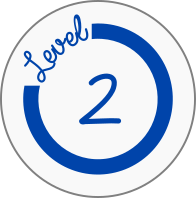
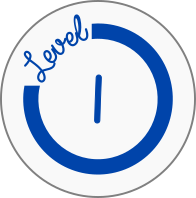
moew refactoring and styling

Changed region(s): [[0.398, 0.3636, 0.6122, 0.6364]]

diff --git a/client/src/pages/selectStudy/selectStudy.html b/client/src/pages/selectStudy/selectStudy.html
@@ -22,15 +22,50 @@
 
   <div [ngSwitch]="studyType">
     <div *ngSwitchCase="'vocabulary'">
-      <button ion-button class="studyBtn" (click)="studyDueCards()">Study<br/>due cards</button>
-      <horizontalscroll-component [items]="language.topics" (clickEvent)="presentPopover($event)"></horizontalscroll-component>
-      <horizontalscroll-component [items]="levels" (clickEvent)="presentPopover($event)"></horizontalscroll-component>
+      <ion-list no-lines>
+        <!-- <ion-item><button ion-button class="studyBtn" (click)="studyDueCards()">Study<br/>due cards</button></ion-item> -->
+        <ion-item-divider>
+          Study due cards
+        </ion-item-divider>
+        <ion-item class="center">
+          <circleview-component text="Study" [subtext]="vocabProvider.getCardsToLearn().length" (click)="studyDueCards()"></circleview-component>
+        </ion-item>
+        <ion-item-divider>
+          Topics
+        </ion-item-divider>
+        <ion-item>
+          <horizontalscroll-component mode="topics" [items]="language.topics" (clickEvent)="presentTopicPopover($event)"></horizontalscroll-component>
+        </ion-item>
+        <ion-item-divider>
+          Levels
+        </ion-item-divider>
+        <ion-item>
+          <horizontalscroll-component mode="levels" (clickEvent)="presentLevelPopover($event)"></horizontalscroll-component>
+        </ion-item>
+      </ion-list>
     </div>
 
     <div *ngSwitchCase="'grammar'">
-      <button ion-button class="studyBtn" (click)="studyDueCards()">Study<br/>due cards</button>
-      <horizontalscroll-component [items]="topics" (clickEvent)="presentPopover($event)"></horizontalscroll-component>
-      <horizontalscroll-component [items]="levels" (clickEvent)="presentPopover($event)"></horizontalscroll-component>
+      <ion-list>
+        <ion-item-divider>
+          Study due cards
+        </ion-item-divider>
+        <ion-item class="center">
+          <circleview-component text="Study" (click)="studyDueCards()"></circleview-component>
+        </ion-item>
+        <ion-item-divider>
+          Topics
+        </ion-item-divider>
+        <ion-item>
+          <horizontalscroll-component mode="topics" [items]="topics" (clickEvent)="presentTopicPopover($event)"></horizontalscroll-component>
+        </ion-item>
+        <ion-item-divider>
+          Levels
+        </ion-item-divider>
+        <ion-item>
+          <horizontalscroll-component mode="levels" (clickEvent)="presentLevelPopover($event)"></horizontalscroll-component>
+        </ion-item>
+      </ion-list>
     </div>
   </div>
 

diff --git a/client/src/pages/selectStudyPopover/selectStudyPopover.html b/client/src/pages/selectStudyPopover/selectStudyPopover.html
@@ -1,7 +1,8 @@
 <ion-header>
 
   <ion-navbar>
-    <ion-title>{{cardDeckTitle}}</ion-title>
+    <ion-title *ngIf="mode=='levels'">Level {{level}}</ion-title>
+    <ion-title *ngIf="mode=='topic'">{{topic}}</ion-title>
   </ion-navbar>
 
 </ion-header>
@@ -9,8 +10,15 @@
 
 <ion-content padding class="no-scroll center-content">
 
-  <button ion-button class="popoverBtn" (click)="showCardDeck(cardDeckId)" [disabled]="!(this.vocabProvider.getCardDeckForId(cardDeckId).length>0)"><ion-icon name="eye"></ion-icon></button>
-  <button ion-button class="popoverBtn" (click)="studyCardDeck(cardDeckId)" [disabled]="!(this.vocabProvider.getCardDeckForId(cardDeckId).length>0)"><ion-icon name="play"></ion-icon></button>
-  <button ion-button class="popoverBtn" (click)="showRules(cardDeckId)" [disabled]="!(this.vocabProvider.getCardDeckForId(cardDeckId).length>0)"><ion-icon name="bulb"></ion-icon></button>
+  <div *ngIf="mode=='topic'">
+    <button ion-button class="popoverBtn" (click)="showCardDeck(cardDeckId)" [disabled]="!(this.vocabProvider.getCardDeckForTopic(topic).length>0)"><ion-icon name="eye"></ion-icon></button>
+    <button ion-button class="popoverBtn" (click)="studyCardDeck(cardDeckId)" [disabled]="!(this.vocabProvider.getCardDeckForTopic(topic).length>0)"><ion-icon name="play"></ion-icon></button>
+    <button ion-button class="popoverBtn" (click)="showRules(cardDeckId)" [disabled]="!(this.vocabProvider.getCardDeckForTopic(topic).length>0)"><ion-icon name="bulb"></ion-icon></button>
+  </div>
+  <div *ngIf="mode=='levels'">
+    <button ion-button class="popoverBtn" (click)="showCardDeck(level)" [disabled]="!(this.vocabProvider.getCardDeckForLevel(level-1).length>0)"><ion-icon name="eye"></ion-icon></button>
+    <button ion-button class="popoverBtn" (click)="studyCardDeck(level)" [disabled]="!(this.vocabProvider.getCardDeckForLevel(level-1).length>0)"><ion-icon name="play"></ion-icon></button>
+    <button ion-button class="popoverBtn" (click)="showRules(level)" [disabled]="!(this.vocabProvider.getCardDeckForLevel(level-1).length>0)"><ion-icon name="bulb"></ion-icon></button>
+  </div>
 
 </ion-content>

diff --git a/client/src/pages/selectStudyPopover/selectStudyPopover.ts b/client/src/pages/selectStudyPopover/selectStudyPopover.ts
@@ -1,5 +1,5 @@
 import { Component } from '@angular/core';
-import {ToastController, ViewController, App, NavParams} from 'ionic-angular';
+import { ToastController, ViewController, App, NavParams } from 'ionic-angular';
 
 import { Card } from "../../../model/card";
 import { VocabProvider } from "../../providers/vocab/vocab";
@@ -12,17 +12,23 @@ import { VocabularyListPage } from "../vocabularyList/vocabularyList";
 })
 export class SelectStudyPopoverPage {
 
-  cardDeckId: number = -1;
-  cardDeckTitle: String = null;
+  private mode: string;
+  private topic: string;
+  private level: number;
 
   constructor(protected app: App,
-              private toastCtrl: ToastController,
-              private navParams: NavParams,
-              private viewCtrl: ViewController,
-              private vocabProvider: VocabProvider) {
+    private toastCtrl: ToastController,
+    private navParams: NavParams,
+    private viewCtrl: ViewController,
+    private vocabProvider: VocabProvider) {
 
-    this.cardDeckId = this.navParams.get('cardDeckId');
-    this.cardDeckTitle = this.navParams.get('cardDeckTitle');
+    this.level = this.navParams.get('level');
+    this.topic = this.navParams.get('topic');
+    this.mode = this.navParams.get('mode');
+    console.log("popup");
+    console.log(this.mode);
+    console.log(this.topic);
+    console.log(this.level);
   }
 
   showCardDeck(cardDeckId: number) {

diff --git a/client/src/components/horizontalscroll/horizontalscroll.html b/client/src/components/horizontalscroll/horizontalscroll.html
@@ -3,7 +3,15 @@
   <ion-icon name="arrow-dropright" class="scroll-indicator_right"></ion-icon>
 
   <ion-scroll scrollX class="scroll-bar">
-    <circleview-component *ngFor="let item of myItems" (click)="itemClick(item.name)" [text]="item.name" [subtext]="item.amount" [image]="item.image"></circleview-component>
+    <div *ngIf="mode=='languages'">
+      <circleview-component *ngFor="let item of myItems" (click)="itemClick(item.name)" [text]="item.name" [image]="item.image"></circleview-component>
+    </div>
+    <div *ngIf="mode=='topics'">
+      <circleview-component *ngFor="let item of myItems" (click)="itemClick(item.name)" [text]="item.name" [subtext]="vocabProvider.getCardDeckForTopic(item.name).length" image="assets/imgs/topic/topic.png"></circleview-component>
+    </div>
     <!-- <circleview-component *ngFor="let item of myItems" (click)="itemClick(item.key)" [subtext]="item.amount" [image]="item.image"></circleview-component> -->
+    <div *ngIf="mode=='levels'">
+      <circleview-component *ngFor="let i of [1, 2, 3, 4, 5, 6]" (click)="itemClick(i)" [subtext]="vocabProvider.getCardDeckForLevel(i -1).length" image="assets/imgs/level/level_{{i}}.png"></circleview-component>
+    </div>
   </ion-scroll>
 </div>

diff --git a/client/src/pages/selectStudy/selectStudy.ts b/client/src/pages/selectStudy/selectStudy.ts
@@ -79,7 +79,7 @@ export class SelectStudyPage {
     }
   }
 
-  presentPopover(event: any) {
+  presentTopicPopover(topic: any) {
     // get title for popover
     // let cardDeckTitle = null;
     // if (event > 9) { // topic chosen
@@ -96,9 +96,13 @@ export class SelectStudyPage {
     //   });
     // }
 
-    let popover = this.popoverCtrl.create(SelectStudyPopoverPage,
-      {cardDeckId: event, cardDeckTitle: event});
-    popover.present();
+    this.popoverCtrl.create(SelectStudyPopoverPage,
+      { topic: topic, mode: "topic" }).present();
+  }
+
+  presentLevelPopover(level: number) {
+    this.popoverCtrl.create(SelectStudyPopoverPage,
+      { level: level, mode: "levels" }).present();
   }
 
   // createCard() {

diff --git a/client/src/components/horizontalscroll/horizontalscroll.ts b/client/src/components/horizontalscroll/horizontalscroll.ts
@@ -1,4 +1,5 @@
 import { Component, Input, Output, EventEmitter } from '@angular/core';
+import { VocabProvider } from "../../providers/vocab/vocab";
 
 export interface Item{
   name:string;
@@ -14,9 +15,10 @@ export interface Item{
 export class HorizontalscrollComponent {
 
   @Input("items") myItems:Item[];
+  @Input("mode") mode:string;
   @Output() clickEvent = new EventEmitter();
 
-  constructor() {
+  constructor(public vocabProvider: VocabProvider) {
 
   }
 

diff --git a/client/src/components/horizontalscroll/horizontalscroll.scss b/client/src/components/horizontalscroll/horizontalscroll.scss
@@ -1,6 +1,8 @@
 horizontalscroll-component {
   .scroll-container {
-    margin: 0 10px;
+    // margin: 15px 0;
+    // padding: 10px 10px;
+    // background-color: rgba(26,123,211, 0.3);
   }
 
   .scroll-indicator_left {
@@ -30,7 +32,7 @@ horizontalscroll-component {
   }
 
   .scroll-bar {
-    height: 160px;
+    height: 103px;
     text-align: center;
     white-space: nowrap;
     margin: 0 20px;

diff --git a/client/src/components/circleview/circleview.scss b/client/src/components/circleview/circleview.scss
@@ -16,6 +16,7 @@ circleview-component {
     color: map-get($colors, light);
     text-shadow: -4px 0 10px map-get($colors, primary), 0 4px 10px map-get($colors, primary), 4px 0 10px map-get($colors, primary), 0 -4px 10px map-get($colors, primary);
     font-size: large;
+    font-weight: bold;
     //center
     text-align: center;
     vertical-align: middle;

diff --git a/client/src/pages/selectStudy/selectStudy.scss b/client/src/pages/selectStudy/selectStudy.scss
@@ -8,5 +8,16 @@ page-selectStudy {
     background-color: map-get($colors, primary);
     border: 2px solid map-get($colors, primary);
   }
-}
 
+  .item-divider-md{
+    padding: 0;
+    margin: 0;
+    background-color: map-get($colors, secondary);
+    color: map-get($colors, light);
+    font-size: 150%;
+  }
+
+  .center{
+    text-align: center;
+  }
+}

diff --git a/client/src/pages/home/home.html b/client/src/pages/home/home.html
@@ -15,7 +15,7 @@
     <h2 class="headercolor">Ready to start learning?</h2>
   </ion-card>
 
-  <horizontalscroll-component [items]="user.languages" (clickEvent)="start($event)"></horizontalscroll-component>
+  <horizontalscroll-component mode="languages" [items]="user.languages" (clickEvent)="start($event)"></horizontalscroll-component>
 
 
   <!-- Test -->

diff --git a/client/src/providers/vocab/vocab.ts b/client/src/providers/vocab/vocab.ts
@@ -269,10 +269,10 @@ export class VocabProvider {
 
     this.currentLanguage.topics.forEach((myTopic)=>{
       if(topic == myTopic.name){
-        return myTopic.cards;
+        result = myTopic.cards;
       }
     });
-    return [];
+    return result;
   }
 
   //get all cards which we need to learn right known
